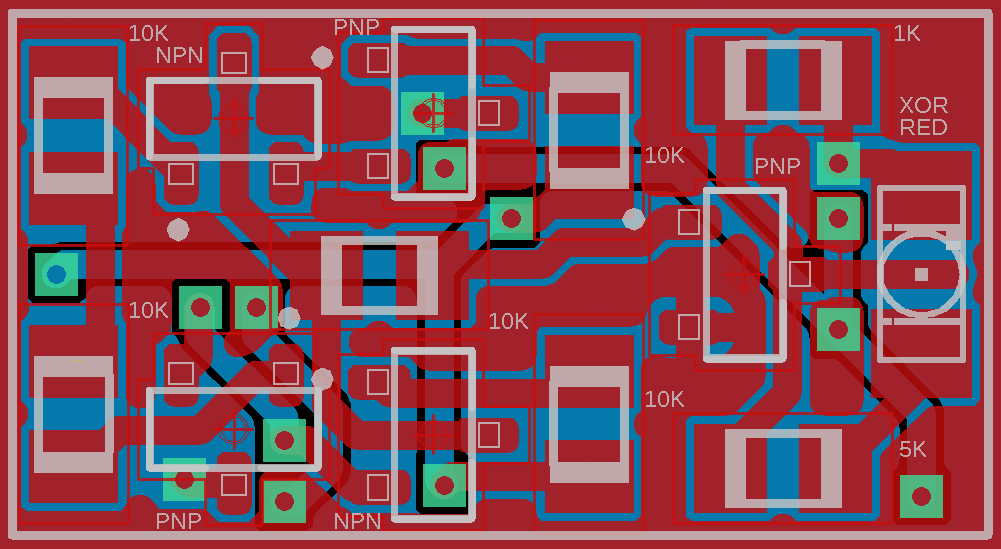
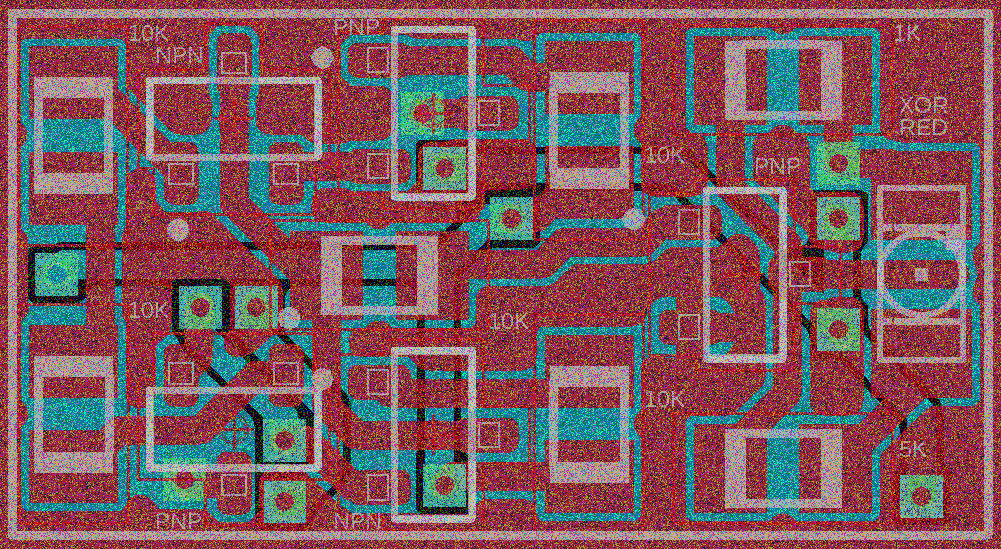
Implemented 122picture index selection
Added functionality such that the index where data is appended to an image can be selected.

diff --git a/functions/steganography/_122picture_.py b/functions/steganography/_122picture_.py
@@ -123,7 +123,7 @@ def message_generator(key, data, width, height, positions, noise=False):
     return built_data, length, pixel_utilisation
 
 # Function: extract_values
-def extract_values(image, length, positions, rgb_order):
+def extract_values(image, length, positions, rgb_order, index):
     ''' Returns: Existing Binary Data to be Replaced. '''
     locations = [image.getpixel(
         (positions[point][1], positions[point][0])) for point in range(length)]
@@ -131,7 +131,7 @@ def extract_values(image, length, positions, rgb_order):
                     for point in range(length)]
     binary_values = [integer_conversion(
         exact_points[point], "binary").zfill(8) for point in range(length)]
-    return "".join([binary_values[point][7] for point in range(length)])
+    return "".join([binary_values[point][index] for point in range(length)])
 
 # Function: data_comparison
 def data_comparison(current_values, new_values, length):
@@ -149,16 +149,17 @@ def data_rebuild(locations, new_values, rgb_order, length):
     return [tuple(element) for element in input_list]
 
 # Function: attach_data
-def attach_data(image, length, positions, rgb_order, image_message):
+def attach_data(image, length, positions, rgb_order, image_message, index):
     ''' Returns: New Image Data with RGB colours Correctly Modified with Data. '''
     locations = [image.getpixel(
         (positions[point][1], positions[point][0])) for point in range(length)]
     exact_points = [locations[point][rgb_order[point]]
                     for point in range(length)]
-    binary_values = [integer_conversion(
-        exact_points[point], "binary").zfill(8) for point in range(length)]
-    new_binary_values = [binary_values[point][0:7] +
-                         image_message[point] for point in range(length)]
+    binary_values = [list(integer_conversion(
+        exact_points[point], "binary").zfill(8)) for point in range(length)]
+    for point in range(length):
+        binary_values[point][index] = image_message[point]
+    new_binary_values = ["".join(binary_values[point]) for point in range(length)]
     new_values = [integer_conversion(
         new_binary_values[point], "decimal") for point in range(length)]
     new_data = data_rebuild(locations, new_values, rgb_order, length)
@@ -170,26 +171,26 @@ def attach_data(image, length, positions, rgb_order, image_message):
     return image
 
 # Function: extract_key
-def extract_key(image, positions, rgb_order, width_length, height_length):
+def extract_key(image, positions, rgb_order, width_length, height_length, index):
     ''' Returns: Extracted Data End Point. '''
     key_length = width_length + height_length
-    key_data = extract_values(image, key_length, positions, rgb_order)
+    key_data = extract_values(image, key_length, positions, rgb_order, index)
     width_key = integer_conversion(key_data[:width_length], "decimal")
     height_key = integer_conversion(key_data[width_length:], "decimal")
     end_position = (width_key, height_key)
     return end_position, key_length
 
 # Function: data_extract
-def data_extract(image, positions, rgb_order, end_position, key_length):
+def data_extract(image, positions, rgb_order, end_position, key_length, index):
     ''' Returns: Extracted binary data from provided image. '''
     modified_positions = positions[key_length:]
     modified_rgb_order = rgb_order[key_length:]
     length = positions.index(end_position) - key_length
-    return extract_values(image, length, modified_positions, modified_rgb_order)
+    return extract_values(image, length, modified_positions, modified_rgb_order, index)
 
 # Function: API_image_append
 # key: Shuffles Order of Image Locations.
-def API_image_append(image_name, indata, input_key: int = 999, noise: bool = False):
+def API_image_append(image_name, indata, input_key: int = 999, index:int = 7, noise: bool = False):
     ''' Returns: Data Appended to Image if Possible. '''
     # Load the appropriate image file for processing.
     image, width, height = load_image(image_name)
@@ -205,19 +206,19 @@ def API_image_append(image_name, indata, input_key: int = 999, noise: bool = Fal
     image_message, length, usage = message_generator(
         key, binary_indata, width, height, positions, noise)
     # Extract the existing values from the image that will be replaced.
-    existing_values = extract_values(image, length, positions, rgb_order)
+    existing_values = extract_values(image, length, positions, rgb_order, index)
     # Compare current and new data to determine key effectiveness.
     key_effectiveness = data_comparison(existing_values, image_message, length)
     # Produce new image by replacing current data with new message data.
     result_image = attach_data(
-        image, length, positions, rgb_order, image_message)
+        image, length, positions, rgb_order, image_message, index)
     # Build new image into an output file to view.
     result_image.save(LOCATION % "new_gate.png")
     # Return useful calculated metrics.
     return usage, key_effectiveness
 
 # Function: API_image_extract
-def API_image_extract(image_name, input_key: int = 999):
+def API_image_extract(image_name, input_key: int = 999, index:int = 7):
     ''' Returns: Data Extracted from Image if Possible. '''
     # Load the appropriate image file for processing.
     image, width, height = load_image(image_name)
@@ -231,13 +232,15 @@ def API_image_extract(image_name, input_key: int = 999):
     width_length, height_length = length_calculator(width, height, None)
     # Decipher end point from image data.
     end_position, key_length = extract_key(
-        image, positions, rgb_order, width_length, height_length)
+        image, positions, rgb_order, width_length, height_length, index)
     # Extract remaining image data from image.
     binary_data = data_extract(
-        image, positions, rgb_order, end_position, key_length)
+        image, positions, rgb_order, end_position, key_length, index)
     # Convert extracted data from binary to plaintext.
     return binary_conversion(binary_data, "decimal")
 
-x = "Please work for the love of god!"
-print(API_image_append("gate.png", x, 9, False))
-print(API_image_extract("new_gate.png", 9))
+data = "Please work for the love of god!"
+key = 9
+index = 0
+print(API_image_append("gate.png", data, key, index, True))
+print(API_image_extract("new_gate.png", key, index))
